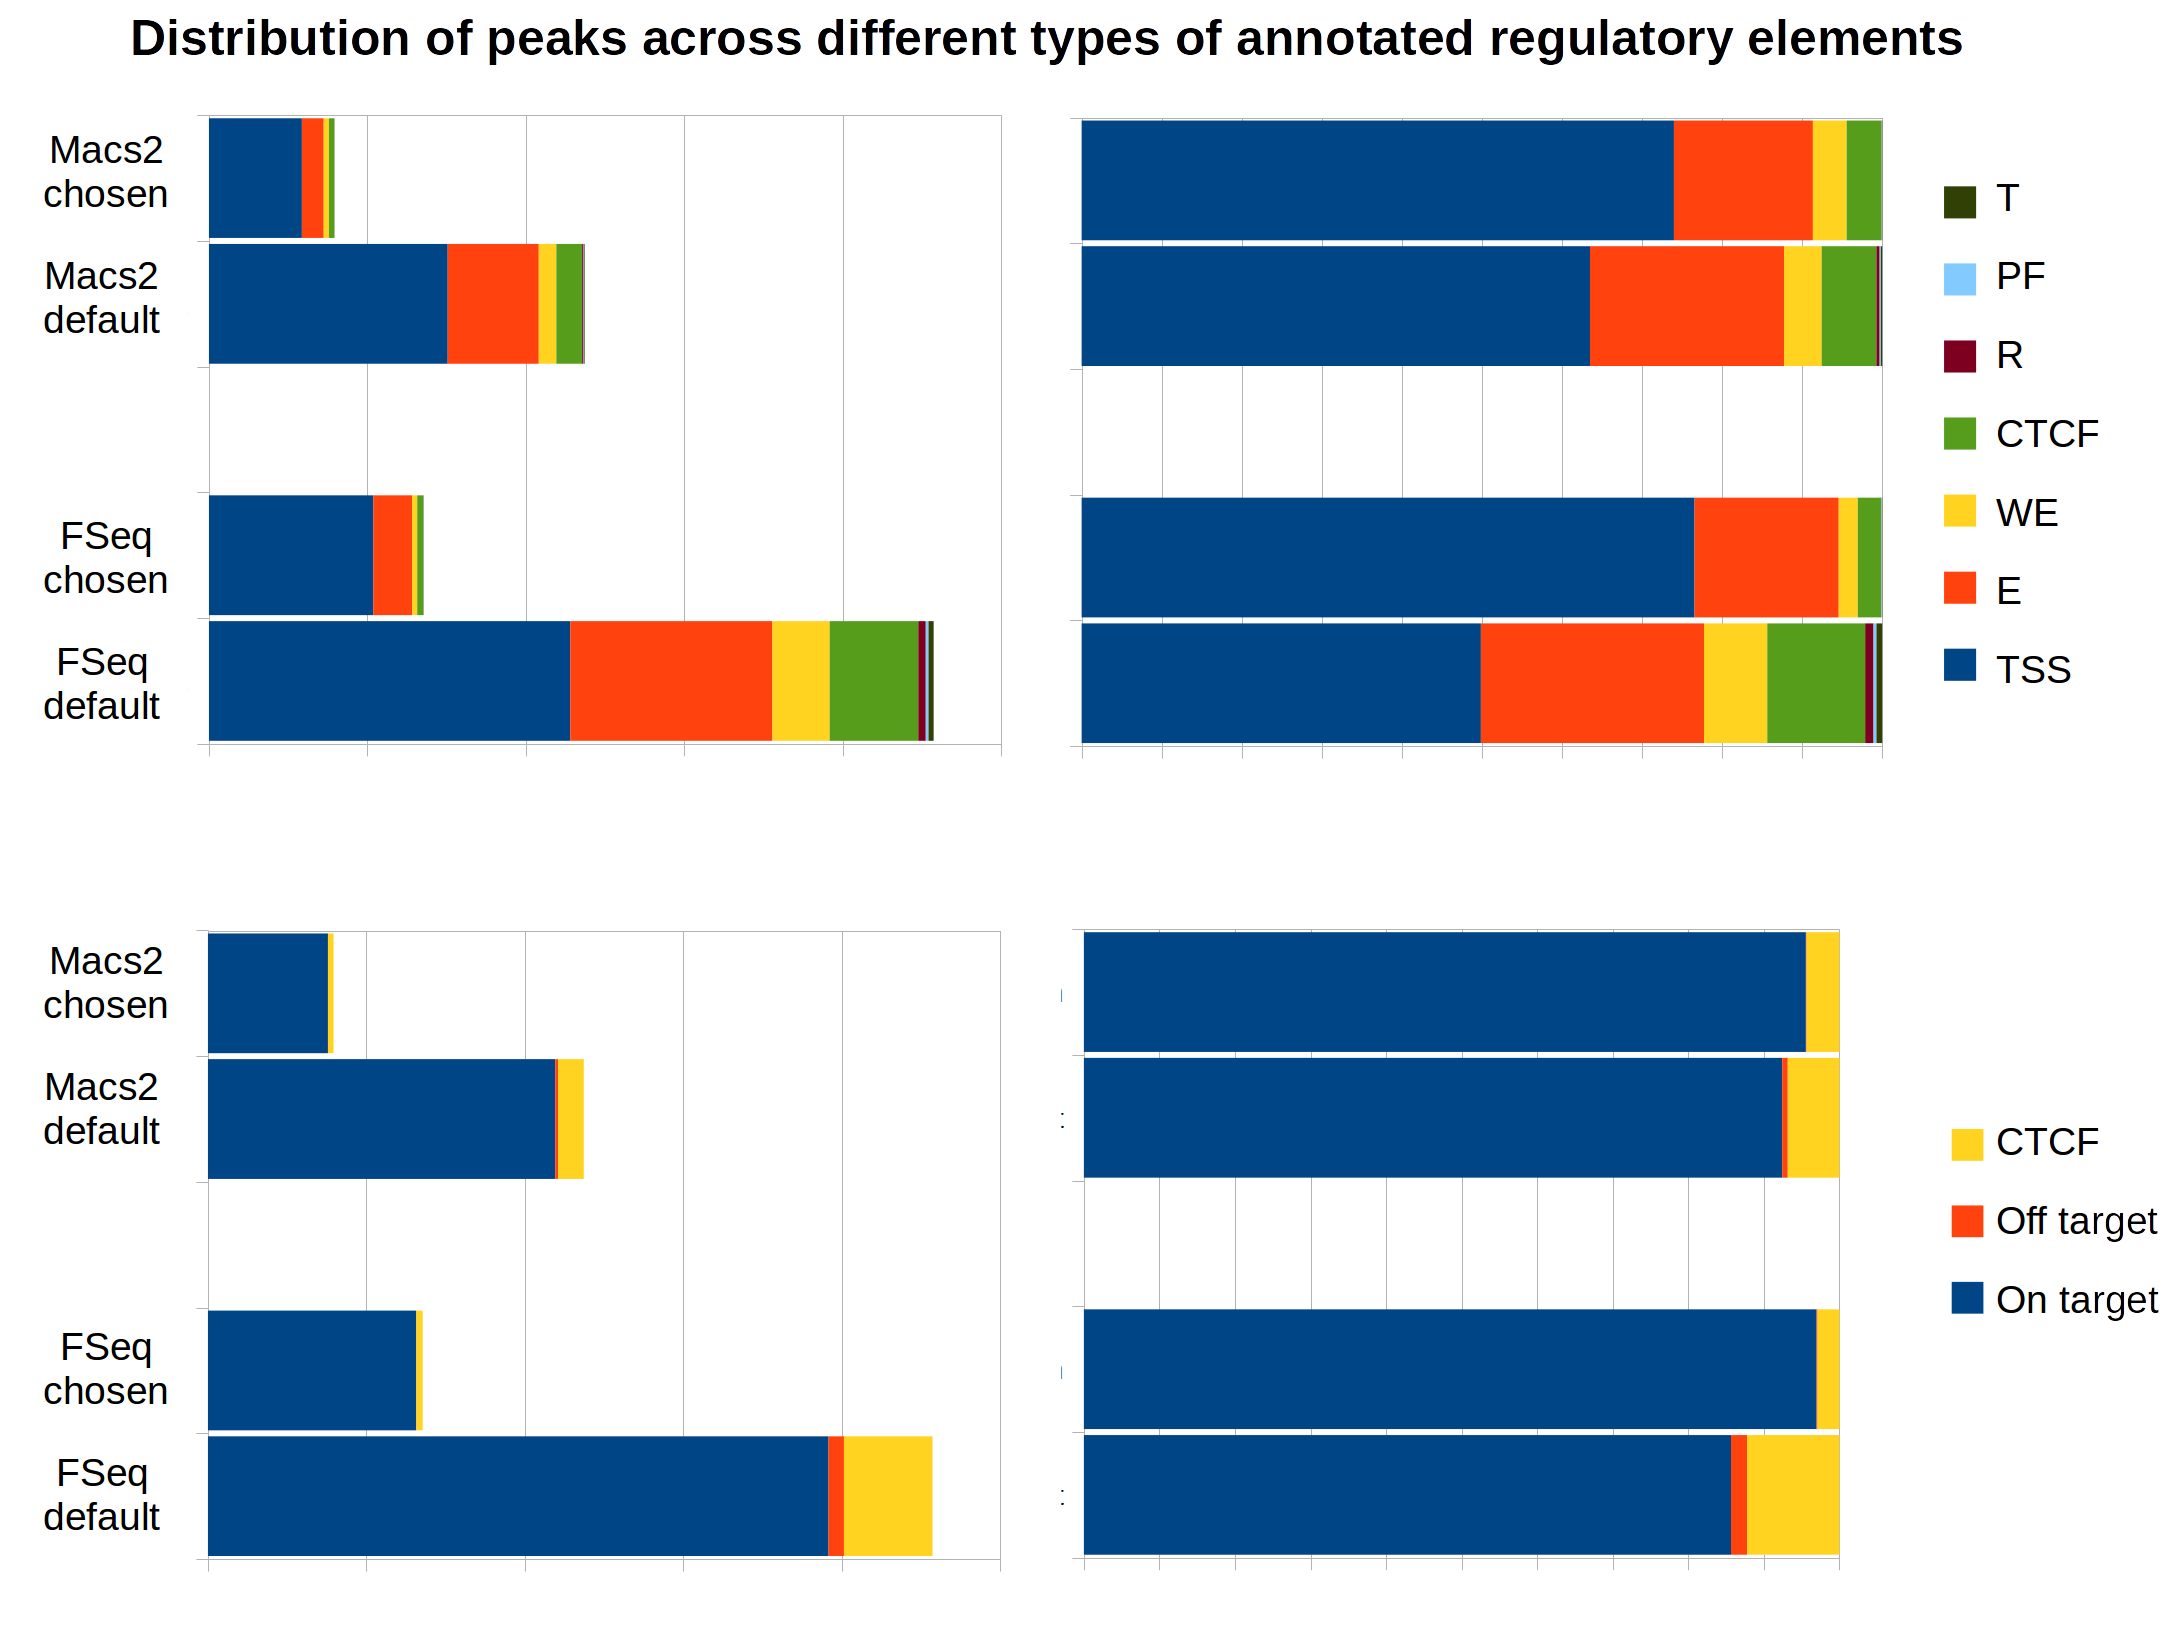
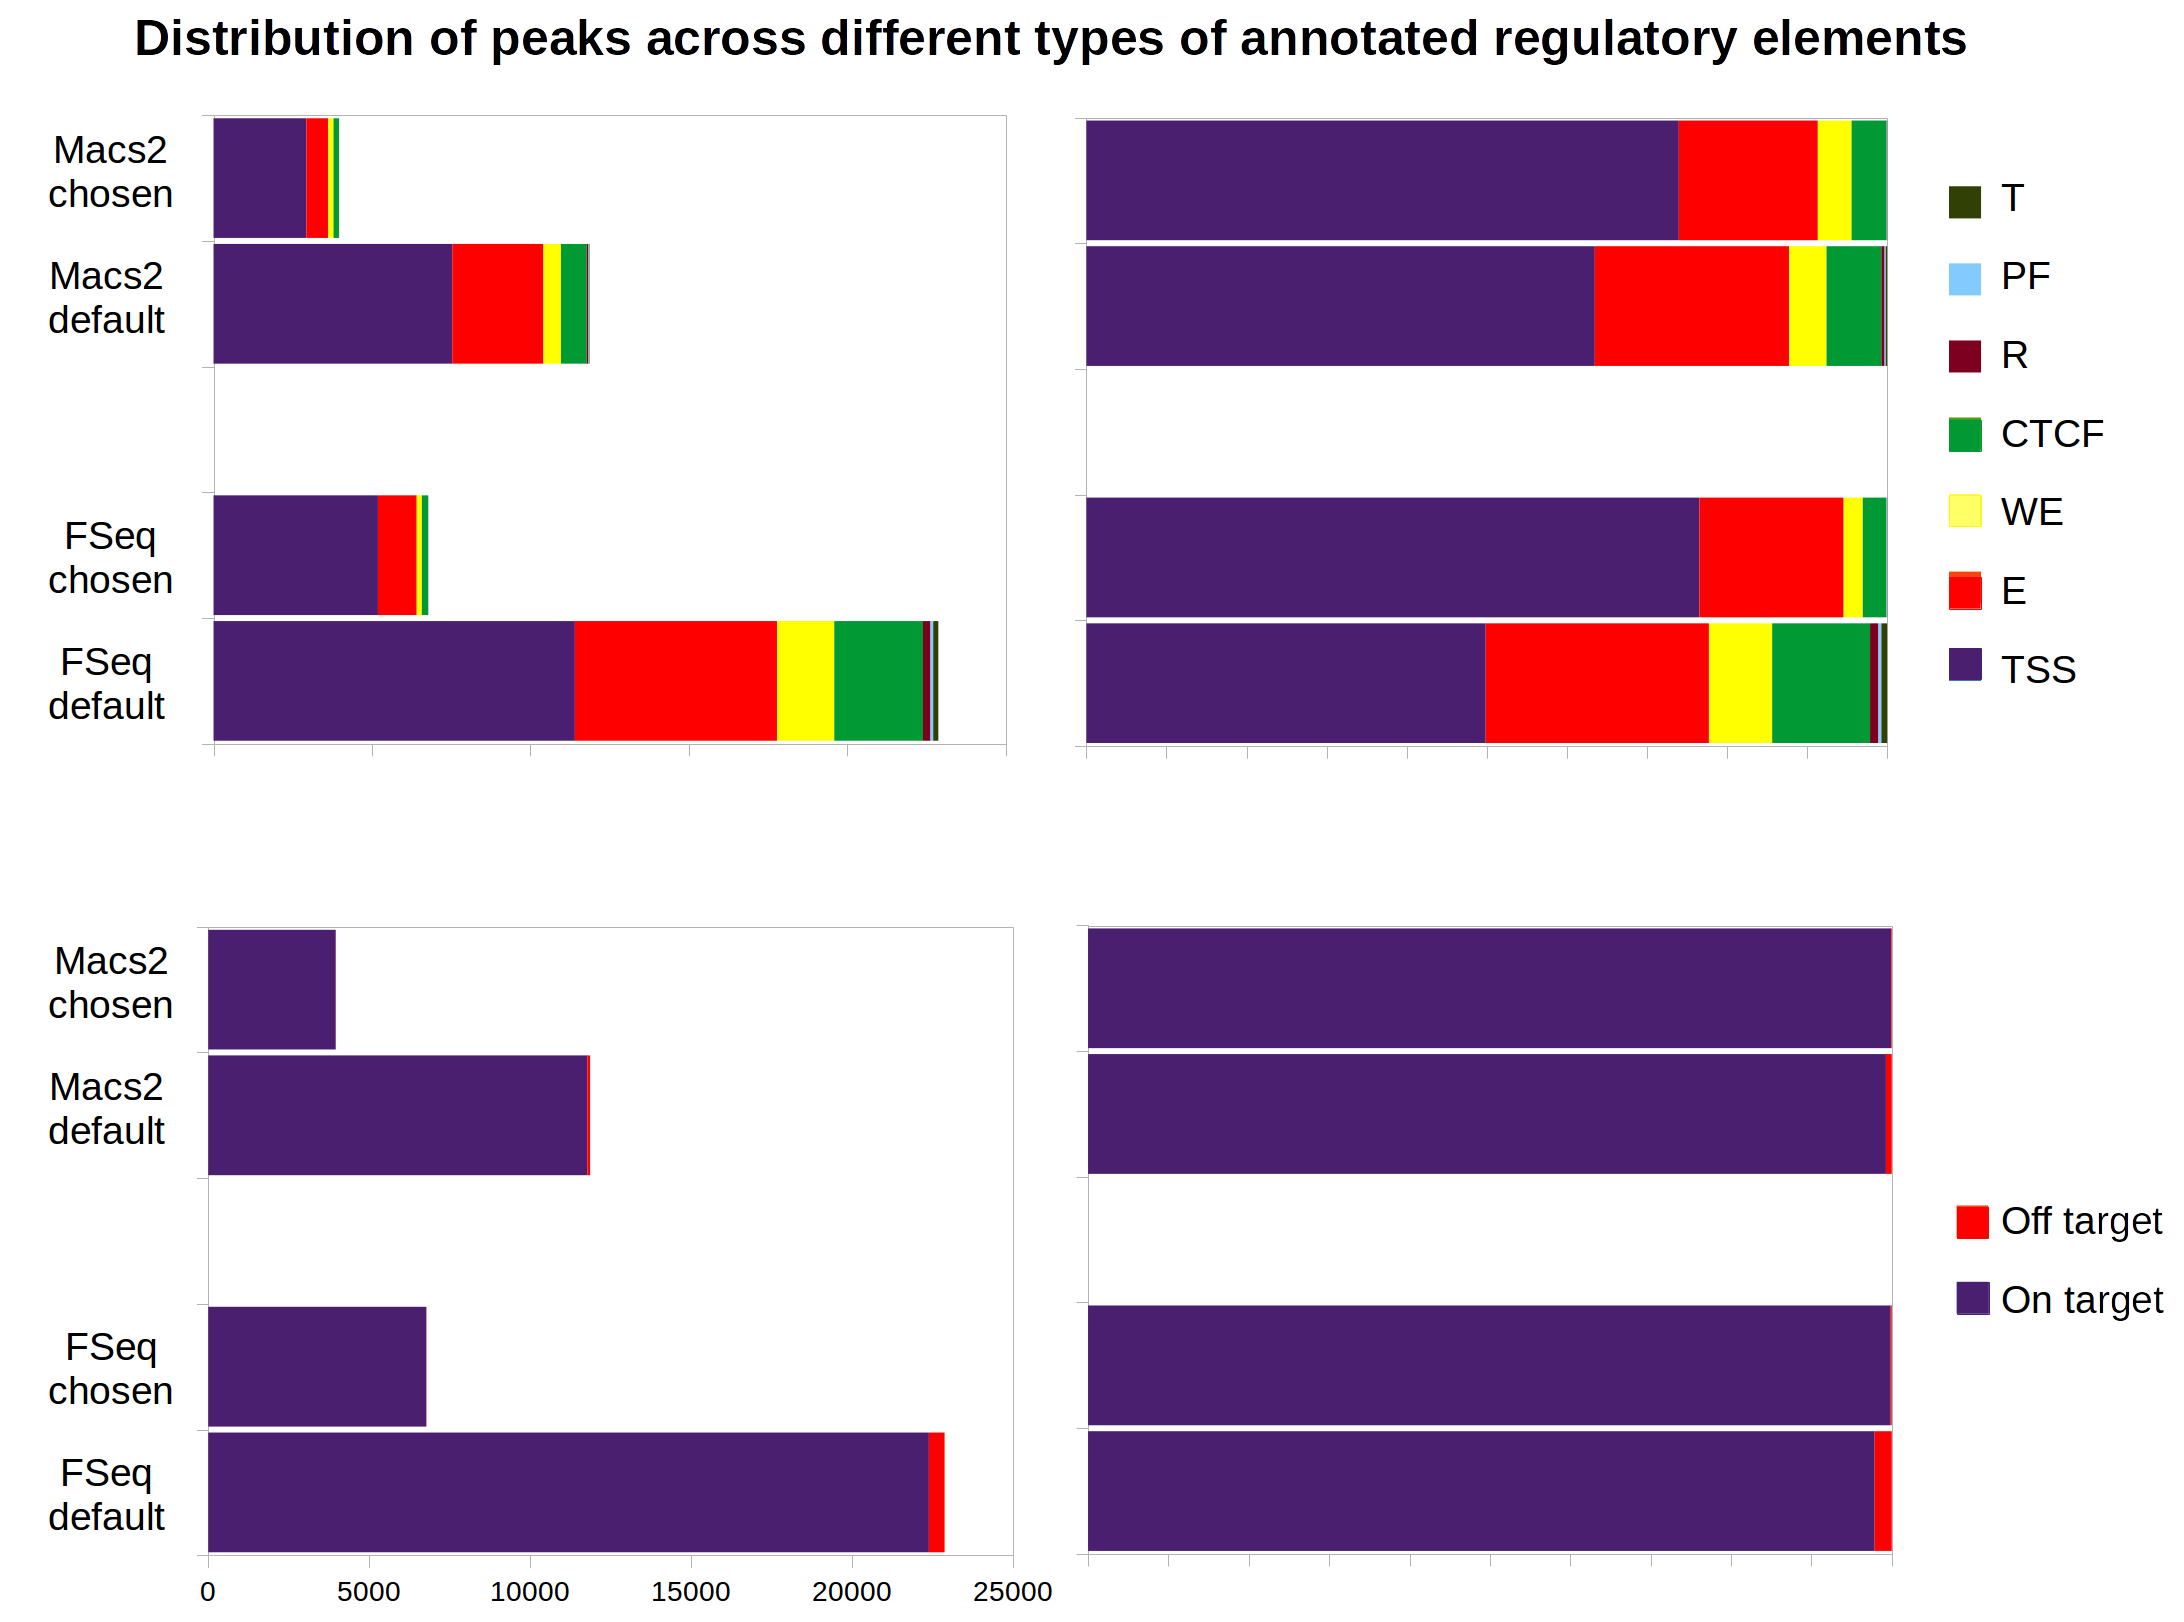
updated horizontal bar plots with the distribution of peaks across annotation categories

diff --git a/Core_manuscript/Fseq_Macs2_Hotspot/peakcaller_comparison_workflow.md b/Core_manuscript/Fseq_Macs2_Hotspot/peakcaller_comparison_workflow.md
@@ -226,6 +226,11 @@ These categories disappear for each peak caller when we use the two selected
 parameter sets. We can also appreciate that the percentage of peaks falling
 within each category is almost identical for both selected parameter sets.
 
+On the bottom two plots you can see what the distribution of peaks look like
+when we group all "off target" categories (repressed and transcribed regions,
+promoter flanking) and "on target" categories (enhancer, weak enhancer, TSS,
+[CTCF](https://en.wikipedia.org/wiki/CTCF)).
+
 
 **Overlap with DNaseI peaks**
 
